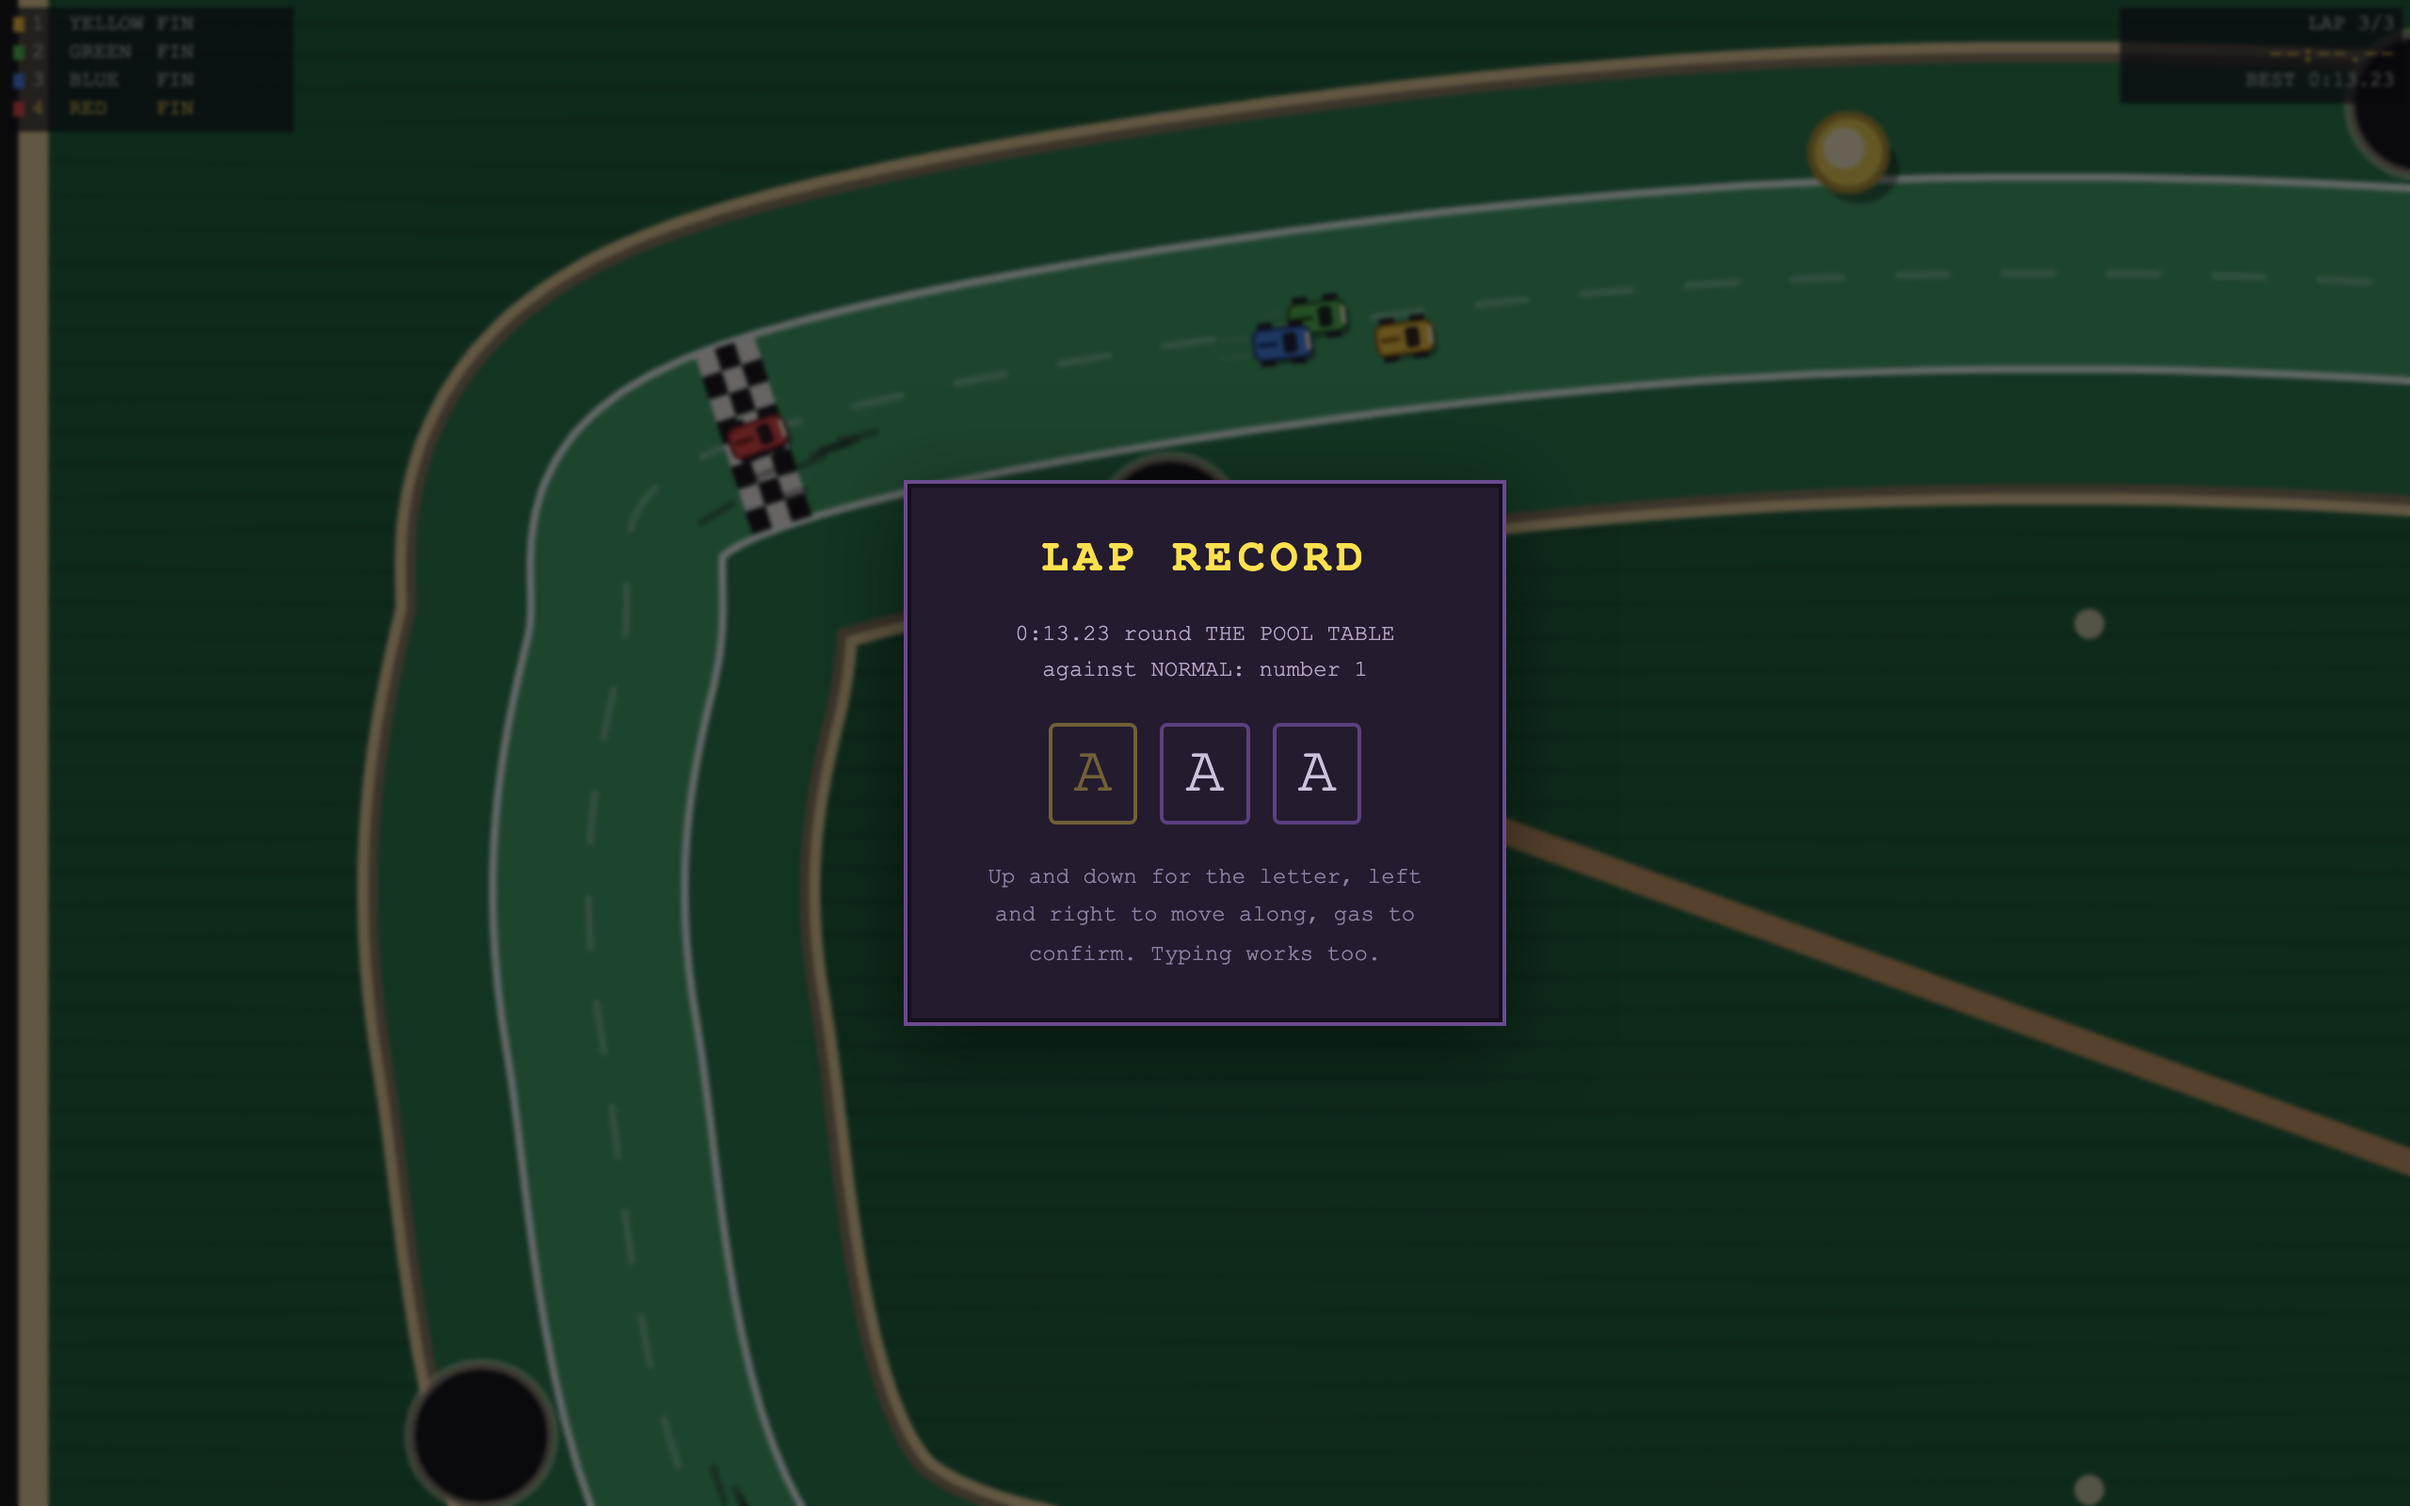
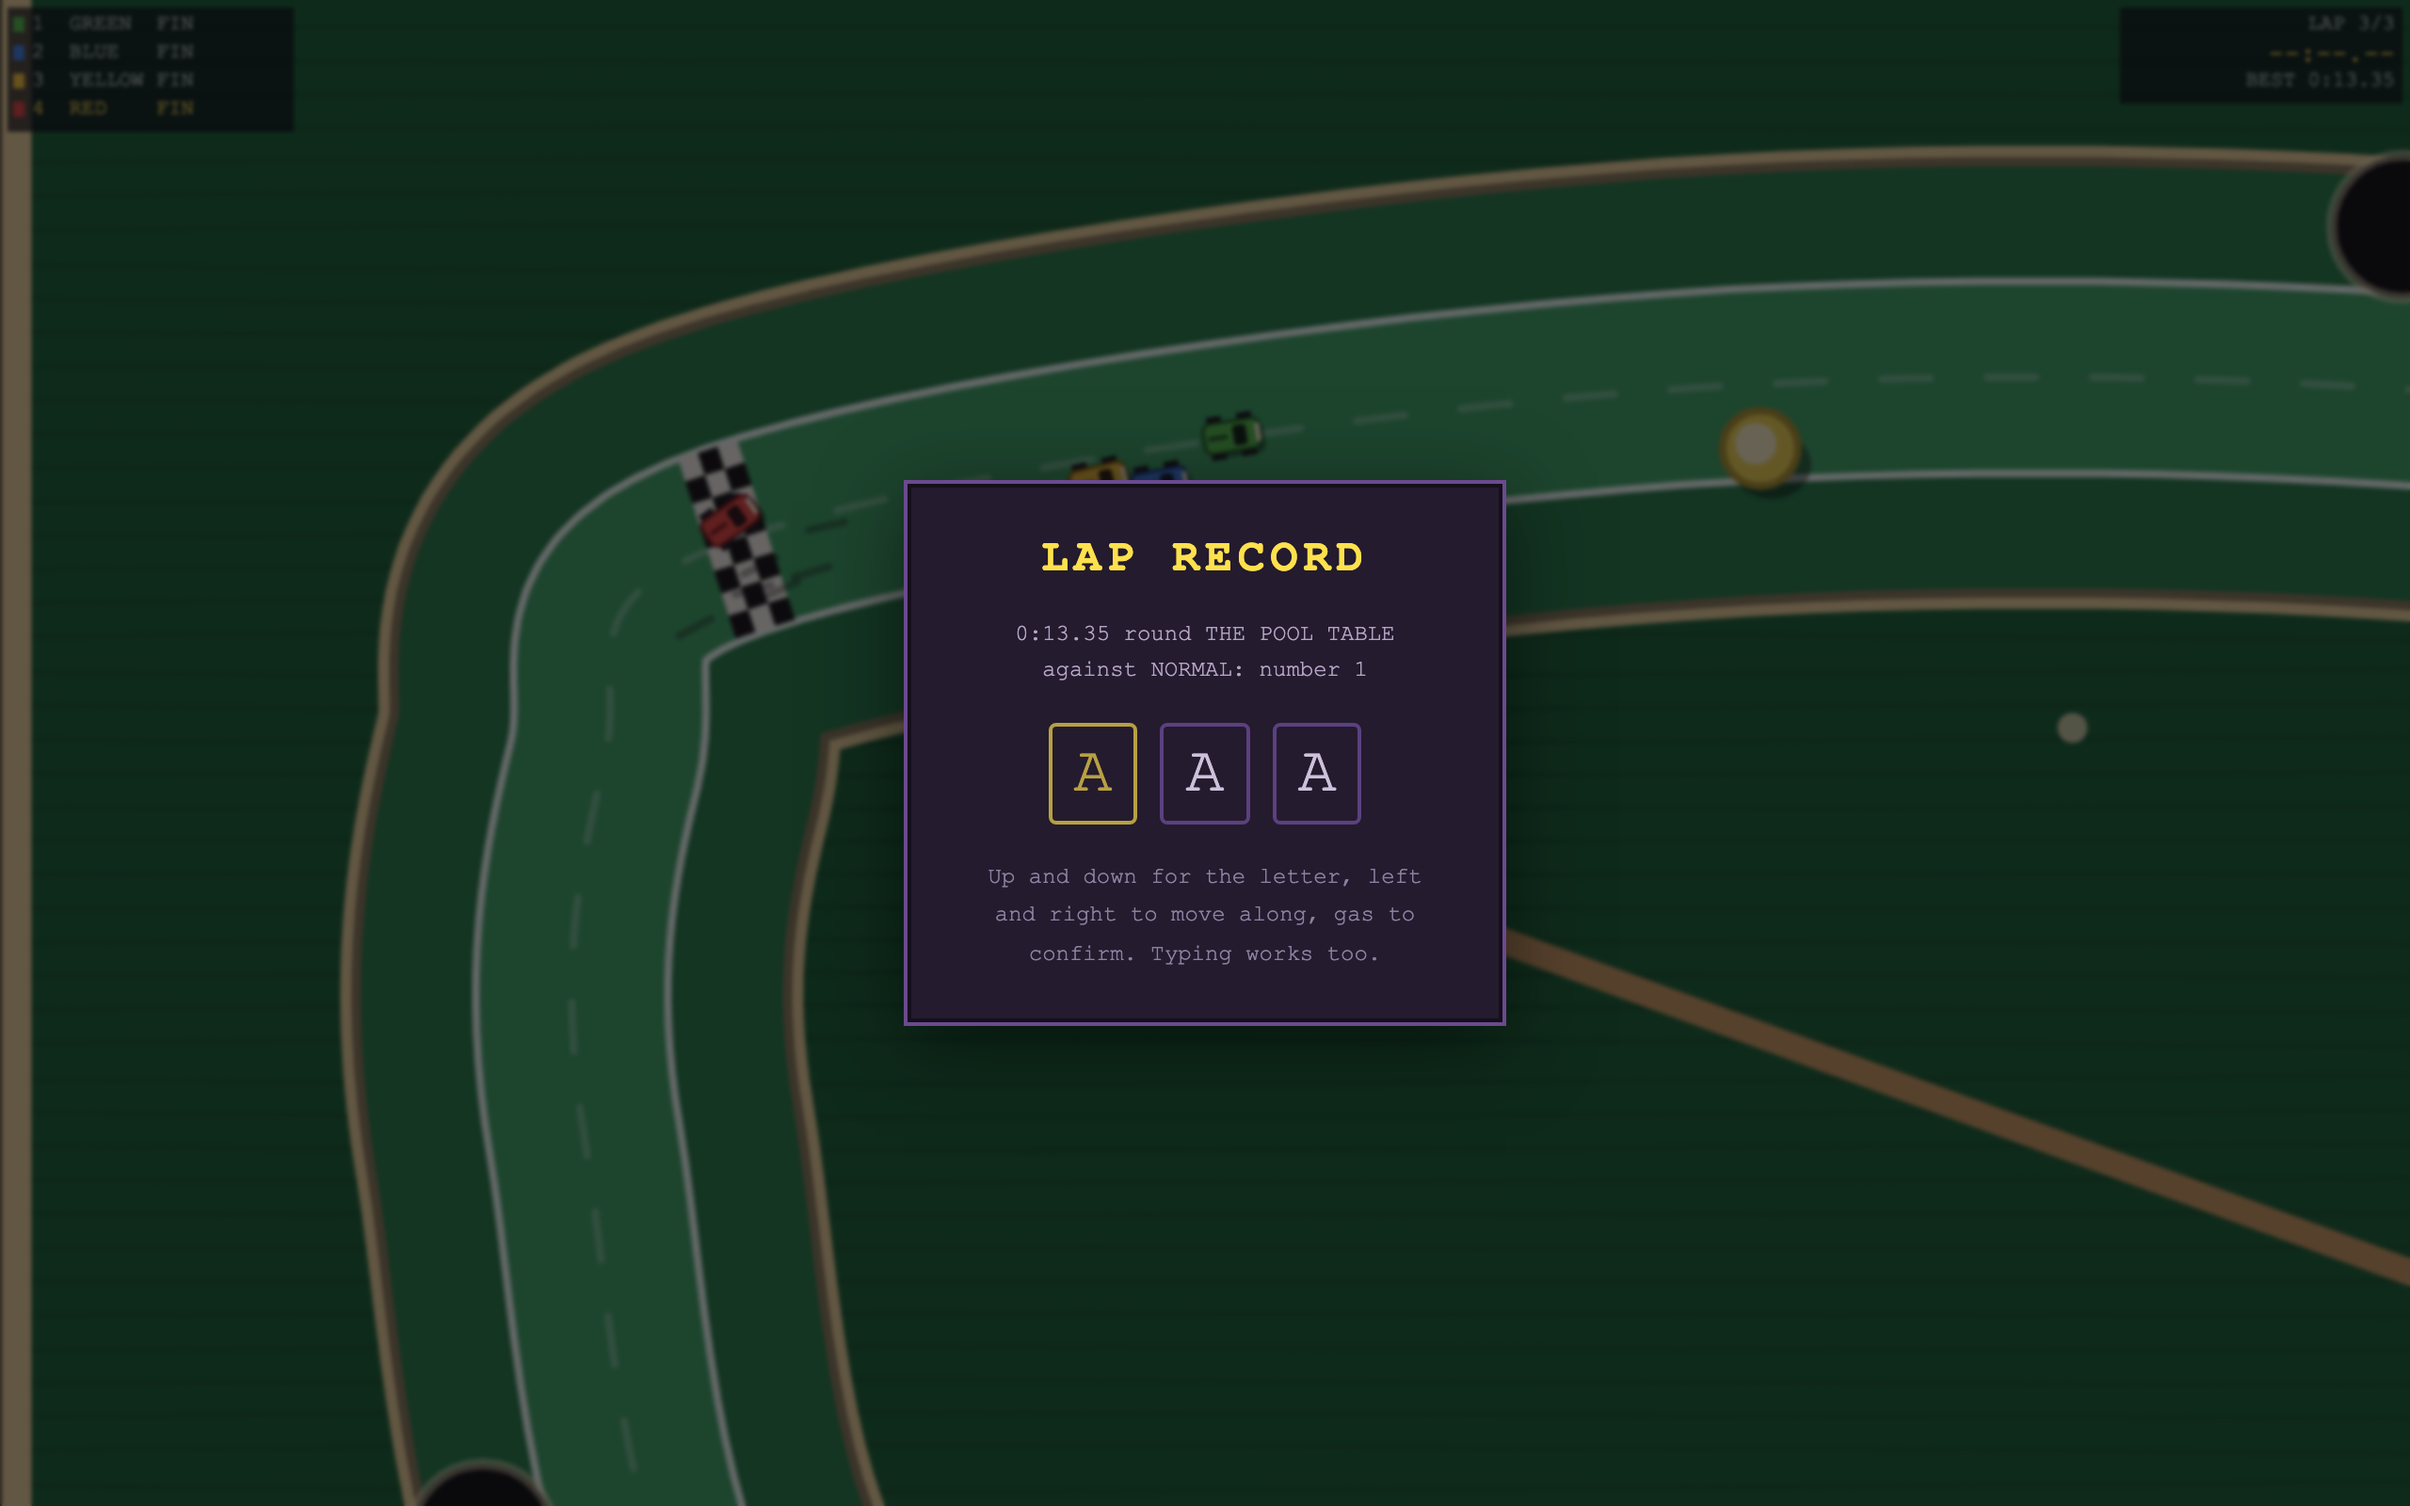
Sharpen the pool table: pockets on the line, balls out on the road
The pockets sat eight pixels clear of the white line, which made them scenery -
measured over 24 races, EASY and NORMAL never found one, because nothing that
stays on the road ever reaches them. They are on the line now: a wheel over it is
a wheel in a pocket, which is what a pool table ought to mean. Not further in
than that, because at ten pixels onto the road an earlier set swallowed cars that
had done nothing wrong.

The three balls were tucked against the kerb where nobody ever met them. Now
there are four, out on the racing surface and alternating sides, so the table has
to be threaded. Each leaves about sixty pixels of clear road down the other side,
which is three car widths.

That exposed something. The CPU could see a turbo and another car and nothing
else, so a ball on the racing line was invisible to it: the EASY drivers hit one
eighty times a race, ricocheting off something they never knew was there. An
obstacle only the player can see does not make a track harder, it makes the
opposition worse. They steer round things now - swept over reach and force,
twenty-four races each, and it is the force that matters: eighty hits a race
becomes twenty-six for EASY and twelve for HARD.

Contacts with a rail and contacts with a thing lying in the road are told apart
now, which is how the above was measured at all - both fired the same event, so
"off the cushions 140" turned out to be 140 ball hits and no cushions. They get
[…]

diff --git a/tools/simtest.js b/tools/simtest.js
@@ -17,7 +17,7 @@ import { aiMask } from '../src/game/ai.js';
 import { TouchDrive } from '../src/touchdrive.js';
 import { ASSIST, blend, roadDemand } from '../src/assist.js';
 import {
-  AI_LEVELS, BOOST_MAX, BOOST_TICKS, BTN, DROP_GAP, SLIP_RANGE, SLIP_WIDTH, TICK_RATE,
+  AI_LEVELS, BOOST_MAX, BOOST_TICKS, BTN, CAR_R, DROP_GAP, SLIP_RANGE, SLIP_WIDTH, TICK_RATE,
 } from '../src/constants.js';
 import {
   Highscores, LEVELS, TIERS, cleanEntry, levelOf, merge, partsOf, placeOf, qualifies, sortTable,
@@ -98,6 +98,52 @@ for (const def of TRACKS) {
   check(path.total > 2500 && path.total < 8000, `${def.key}: a lap is a sensible length`);
 }
 console.log('');
+
+// --- What is lying in the road -----------------------------------------------
+//
+// An obstacle is only worth having if a car can reach it and get past it. Both
+// halves have been wrong at different times: the pool table's pockets sat eight
+// pixels clear of the white line, where EASY and NORMAL never once found one in
+// a whole race, and an earlier set overlapped the road by ten and swallowed cars
+// that had done nothing wrong.
+
+for (const def of TRACKS) {
+  const track = loadTrack(def.key);
+  const room = CAR_R * 2 + 8; // a car, and something to spare
+
+  for (const prop of track.props || []) {
+    const from = Math.abs(prop.off || 0) - prop.r;
+    const to = Math.abs(prop.off || 0) + prop.r;
+    // The clear road down the far side of it, taking the worst case that the
+    // thing is dead centre.
+    const gap = prop.off > 0 ? track.width + (prop.off - prop.r)
+      : track.width + (Math.abs(prop.off) - prop.r);
+    check(gap >= room,
+      `${def.key}: the ${prop.kind} leaves ${Math.round(gap)}px of road beside it`);
+    check(to > 0 && from < track.width + track.shoulder,
+      `${def.key}: and sits somewhere a car can actually get to`);
+  }
+
+  for (const pit of track.pits || []) {
+    const inner = Math.abs(pit.off || 0) - pit.r;
+    check(inner <= track.width,
+      `${def.key}: a pocket reaches the road (${Math.round(track.width - inner)}px onto it)`);
+    check(inner > track.width - 12,
+      `${def.key}: but does not eat it (${Math.round(track.width - inner)}px, 12 is the limit)`);
+  }
+}
+
+// The pool table is the one with things out on the racing line, so it is the one
+// worth saying out loud.
+{
+  const pool = loadTrack('pool');
+  const onRoad = pool.props.filter((p) => Math.abs(p.off) - p.r < pool.width * 0.6);
+  check(onRoad.length === pool.props.length,
+    `every ball on the pool table is out on the road, not against the kerb (${onRoad.length})`);
+  const sides = pool.props.map((p) => Math.sign(p.off)).join('');
+  check(!/(--)|(\+\+)/.test(sides.replace(/1/g, '')) || new Set(sides).size > 1,
+    'and they alternate sides, so the table has to be threaded');
+}
 
 // --- Whole races -------------------------------------------------------------
 

diff --git a/src/game/ai.js b/src/game/ai.js
@@ -21,6 +21,17 @@ import { nextRandom } from '../util.js';
 
 /** How long a driver holds a line before choosing another one, in ticks. */
 const DRIFT_EVERY = 40;
+/**
+ * How far up the road it starts moving over for something lying in it, and how
+ * hard it leans away.
+ *
+ * Swept over both, twenty-four races each: the force is what matters and the
+ * distance barely moves the needle. At 2.2 the EASY drivers still hit a ball
+ * eighty times a race; at 4.5 that is twenty-six, and the HARD drivers twelve.
+ * Stronger again just makes them swerve.
+ */
+const DODGE_LOOK = 200;
+const DODGE_FORCE = 4.5;
 
 /** Shortest way round from one heading to another, in radians. */
 function wrapAngle(a) {
@@ -55,6 +66,38 @@ function wanted(state, car) {
   }
   void path;
   return best;
+}
+
+/**
+ * How far to move over for whatever is sitting in the road.
+ *
+ * The CPU could see a turbo and another car and nothing else, so a snooker ball
+ * on the racing line was invisible to it: put four of them out on the pool table
+ * and the EASY drivers hit the cushions a hundred and forty times a race,
+ * ricocheting off something they never knew was there. An obstacle only the
+ * player can see does not make a track harder, it makes the opposition worse.
+ *
+ * Returns how far to shift the aim sideways, positive being to the driver's
+ * left. Sharper the closer the thing is, and nothing at all once it is behind.
+ */
+function dodge(state, car) {
+  const cs = Math.cos(car.angle);
+  const sn = Math.sin(car.angle);
+  let push = 0;
+  for (const prop of state.track.props || []) {
+    const dx = prop.x - car.x;
+    const dy = prop.y - car.y;
+    const ahead = dx * cs + dy * sn;
+    if (ahead < 0 || ahead > DODGE_LOOK) continue;
+    const across = -dx * sn + dy * cs;
+    const clear = prop.r + CAR_R + 8;
+    if (Math.abs(across) > clear) continue;
+    // Away from whichever side of the nose it is on, and hardest when it is
+    // nearly under the wheels.
+    const urgency = 1 - ahead / DODGE_LOOK;
+    push -= (clear - Math.abs(across)) * Math.sign(across || 1) * urgency * DODGE_FORCE;
+  }
+  return push;
 }
 
 /**
@@ -146,6 +189,15 @@ export function aiMask(state, car) {
   if (grab) {
     tx = tx * 0.35 + grab.x * 0.65;
     ty = ty * 0.35 + grab.y * 0.65;
+  }
+
+  // Round whatever is lying in the road. Before anything else wants the aim:
+  // a turbo is worth a detour and a rival is worth an elbow, but neither is
+  // worth driving into a snooker ball for.
+  const swerve = dodge(state, car);
+  if (swerve !== 0) {
+    tx += -Math.sin(car.angle) * swerve;
+    ty += Math.cos(car.angle) * swerve;
   }
 
   // Leaning on whoever is alongside. Wound up with the level, and pointed at

diff --git a/src/game/tracks.js b/src/game/tracks.js
@@ -123,21 +123,29 @@ export const TRACKS = [
     ],
     // The pockets. Set just off the racing line, so they only collect you if you
     // run wide - which is what makes a cushion worth using rather than avoiding.
-    // Just outside the white line, alternating sides: on the road you are safe,
-    // a wheel over it and you are not. Set at 84 they overlapped the road by ten
-    // pixels and swallowed cars that had done nothing wrong.
+    // On the white line, alternating sides. Set eight pixels clear of it they
+    // were scenery: EASY and NORMAL never found one in a whole race, because
+    // nothing that stays on the road ever reaches them. Now a wheel over the
+    // line is a wheel in a pocket, which is what a pool table ought to mean.
+    // Not further in than this: at ten pixels onto the road they swallowed cars
+    // that had done nothing wrong.
     pits: [
-      { at: 0.05, off: 96, r: 38 }, { at: 0.21, off: -96, r: 38 },
-      { at: 0.38, off: 96, r: 38 }, { at: 0.54, off: -96, r: 38 },
-      { at: 0.71, off: 96, r: 38 }, { at: 0.87, off: -96, r: 38 },
+      { at: 0.05, off: 86, r: 38 }, { at: 0.21, off: -86, r: 38 },
+      { at: 0.38, off: 86, r: 38 }, { at: 0.54, off: -86, r: 38 },
+      { at: 0.71, off: 86, r: 38 }, { at: 0.87, off: -86, r: 38 },
     ],
     patches: [
       { at: 0.30, off: 0, r: 58, surface: 'rough', look: 'chalk' },
     ],
+    // And the balls out on the racing surface rather than tucked against the
+    // kerb, alternating sides so the table has to be threaded. Each one leaves
+    // about sixty pixels of clear road down the other side - three car widths -
+    // and the side it leaves is the side away from the next pocket.
     props: [
-      { kind: 'ball', at: 0.14, off: -66, r: 20 },
-      { kind: 'ball', at: 0.46, off: 70, r: 20 },
-      { kind: 'ball', at: 0.79, off: -62, r: 20 },
+      { kind: 'ball', at: 0.13, off: 34, r: 20 },
+      { kind: 'ball', at: 0.31, off: -34, r: 20 },
+      { kind: 'ball', at: 0.62, off: 34, r: 20 },
+      { kind: 'ball', at: 0.80, off: -34, r: 20 },
     ],
     decor: [
       { kind: 'cue', x: 1100, y: 700, a: 0.35, w: 900 },

diff --git a/src/audio.js b/src/audio.js
@@ -432,11 +432,24 @@ export class Sfx {
     this.engine.tone(90 + t * 90, now, 0.1, 'triangle', 0.2 + t * 0.16);
   }
 
-  /** A rail, a cushion, a book: duller than a car, and it rings a little. */
-  wall(hard = 100) {
+  /**
+   * A rail, a cushion, a book: duller than a car, and it rings a little.
+   *
+   * A thing lying in the road is a different noise - short, hard and high, the
+   * click of one ball off another - and the simulation says which is which, so
+   * there is no reason to pretend they sound alike.
+   */
+  wall(hard = 100, prop = false) {
     if (!this.ready()) return;
     const now = this.ctx.currentTime;
     const t = Math.min(1, hard / 320);
+    if (prop) {
+      this.engine.noiseBurst(now, {
+        freq: 2200, q: 3.5, dur: 0.05, level: 0.16 + t * 0.2, sweepTo: 900,
+      });
+      this.engine.tone(420 + t * 260, now, 0.05, 'triangle', 0.12 + t * 0.1);
+      return;
+    }
     this.engine.noiseBurst(now, {
       freq: 320, q: 2.4, dur: 0.16, level: 0.14 + t * 0.16, sweepTo: 120,
     });
@@ -557,7 +570,7 @@ export class Sfx {
           if (e.seat === seat || e.other === seat) this.bump(e.hard);
           break;
         case 'wall':
-          if (e.seat === seat) this.wall(e.hard);
+          if (e.seat === seat) this.wall(e.hard, e.what === 'prop');
           break;
         case 'fall':
         case 'drop':

diff --git a/src/game/sim.js b/src/game/sim.js
@@ -383,7 +383,9 @@ function bounceOffWall(state, car, near, limit) {
   if (into > 0) {
     car.vx -= into * nx * (1 + WALL_BOUNCE);
     car.vy -= into * ny * (1 + WALL_BOUNCE);
-    if (into > 60) state.events.push({ type: 'wall', seat: car.index, hard: into });
+    // Said apart from a prop, because a rail and a snooker ball are not the same
+    // noise and, more usefully, because you cannot tune what you cannot count.
+    if (into > 60) state.events.push({ type: 'wall', seat: car.index, hard: into, what: 'edge' });
   }
 }
 
@@ -403,7 +405,9 @@ function props(state, car) {
     if (into < 0) {
       car.vx -= into * nx * (1 + WALL_BOUNCE);
       car.vy -= into * ny * (1 + WALL_BOUNCE);
-      state.events.push({ type: 'wall', seat: car.index, hard: -into });
+      state.events.push({
+        type: 'wall', seat: car.index, hard: -into, what: 'prop', kind: prop.kind,
+      });
     }
   }
 }

diff --git a/README.md b/README.md
@@ -155,7 +155,7 @@ anybody turned a wheel.
 | | | |
 | --- | --- | --- |
 | **The breakfast table** | polished wood, no rails | milk on the fast left-hander, crumbs into two more |
-| **The pool table** | cushions all round | six pockets, just off the racing line |
+| **The pool table** | cushions all round | six pockets on the white line, and four balls out on the racing surface |
 | **The garden path** | wet paving, no rails | mud, puddles, and a lawn that costs you a second |
 | **The desk** | books for barriers | the tightest, with a hairpin round the mug |
 
